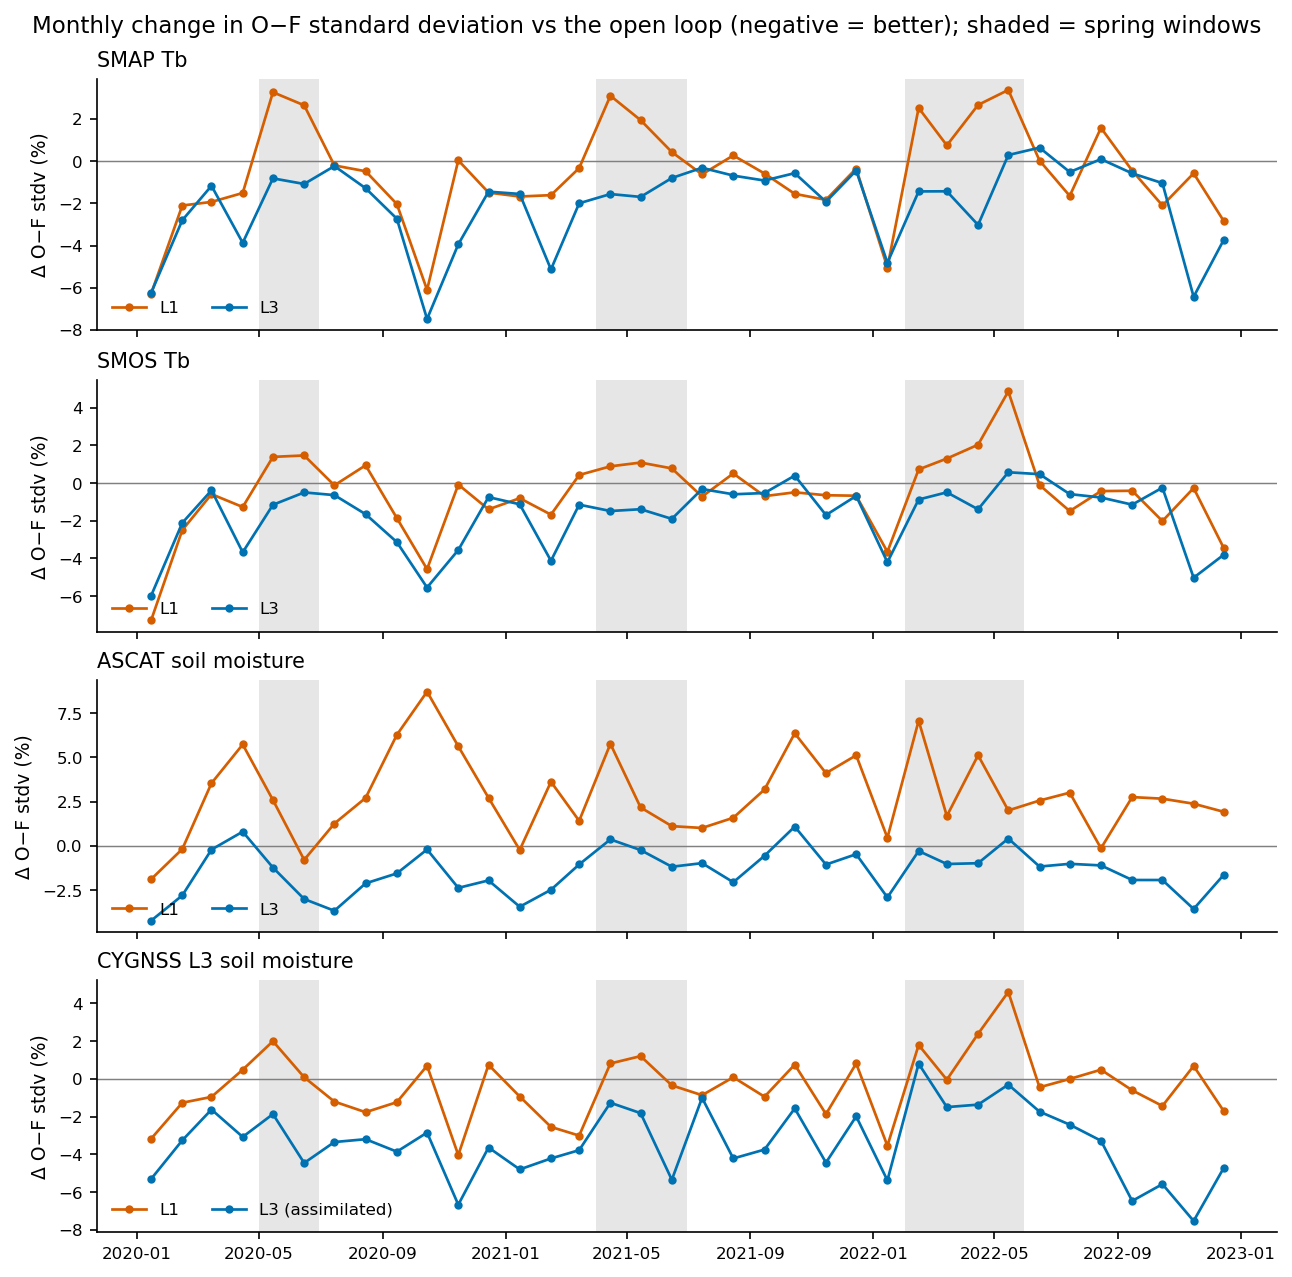
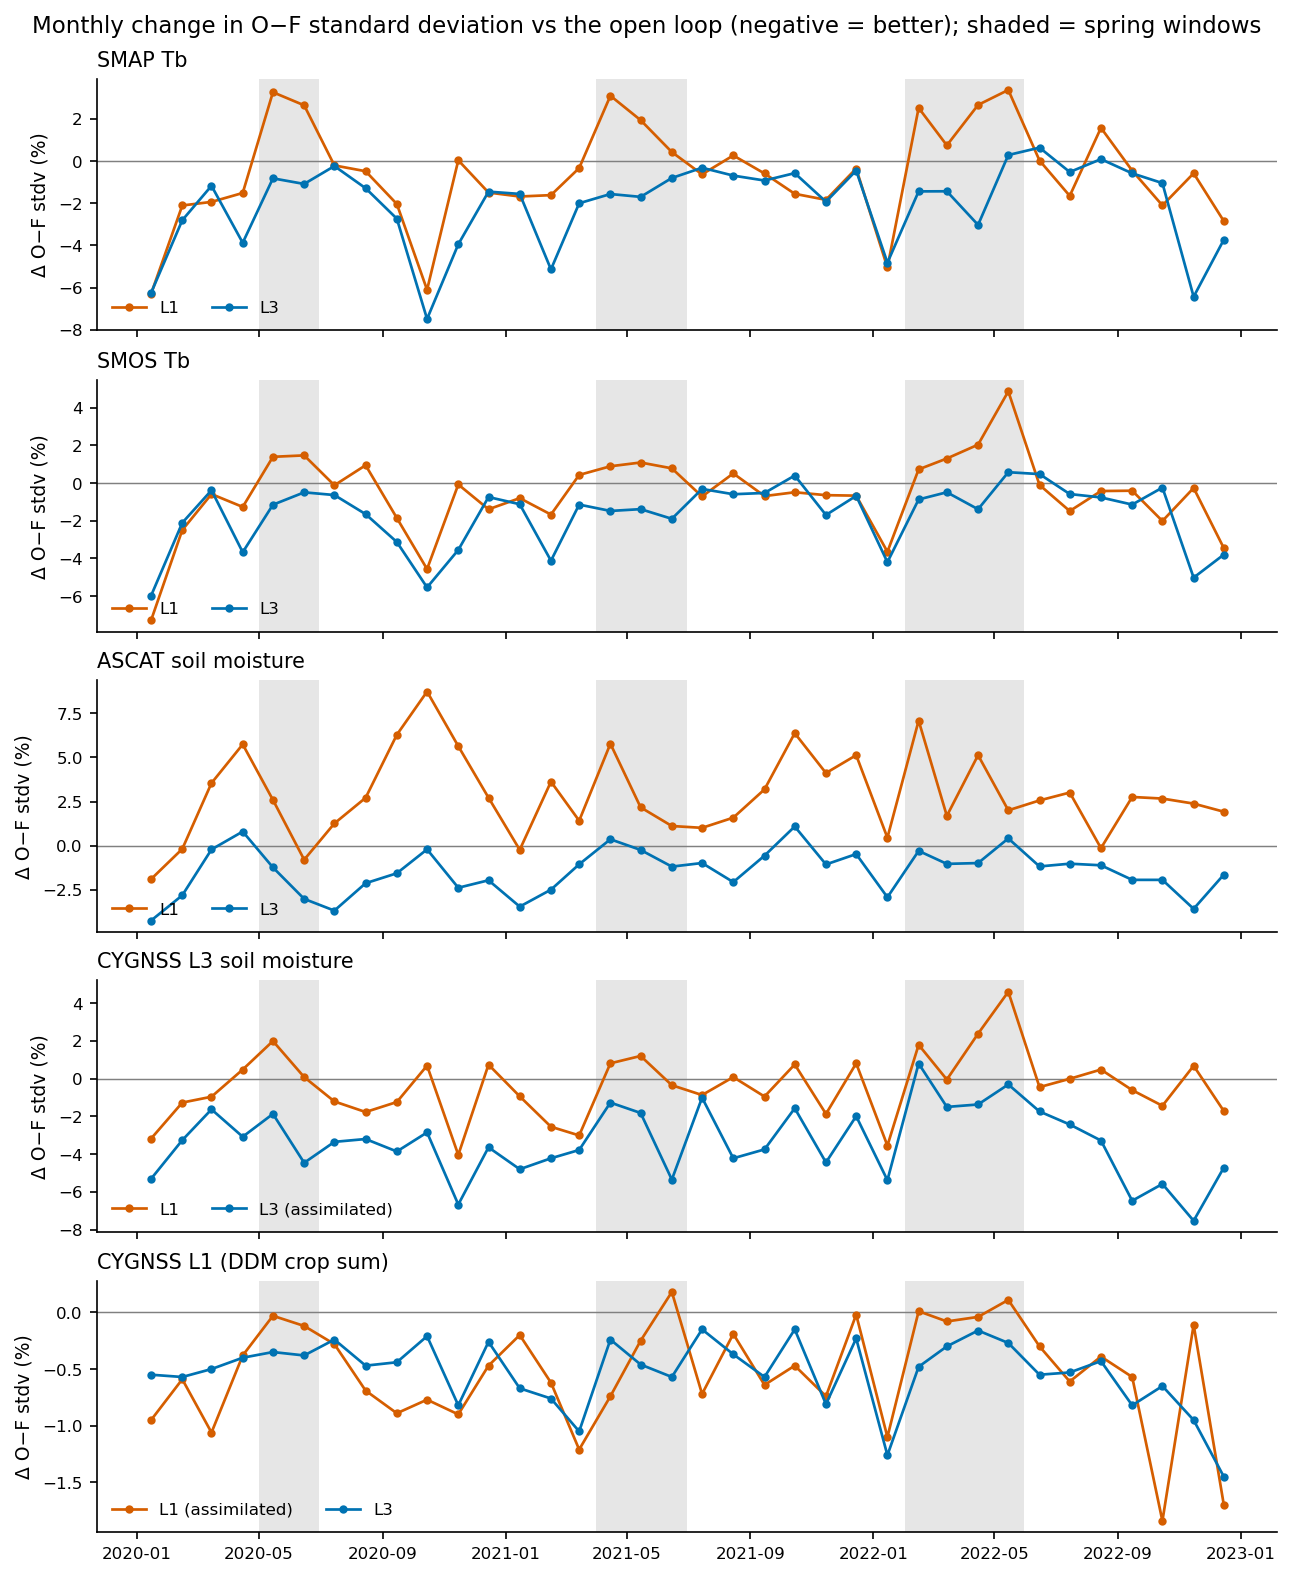
CYGNSS_L1_AZ paper: add CYGNSS L1 to Figs. 6 and 7
Fig. 6 gets a CYGNSS L1 panel and Fig. 7 a CYGNSS L1 column (own +-3% colour
scale), so the effect of L1 assimilation on the L1 fit is visible next to the
L3 arm's. Outline section 5.1 and the captions are updated to match.

diff --git a/projects/CYGNSS_L1_AZ/paper/make_paper_figures.py b/projects/CYGNSS_L1_AZ/paper/make_paper_figures.py
@@ -288,15 +288,17 @@ def monthly_table():
 
 def fig06_monthly():
     m = monthly_table()
-    panels = [("SMAP", "SMAP Tb"), ("SMOS", "SMOS Tb"), ("ASCAT", "ASCAT soil moisture"), ("L3", "CYGNSS L3 soil moisture")]
-    fig, axes = plt.subplots(4, 1, figsize=(8.5, 8.4), sharex=True, constrained_layout=True)
+    panels = [("SMAP", "SMAP Tb"), ("SMOS", "SMOS Tb"), ("ASCAT", "ASCAT soil moisture"), ("L3", "CYGNSS L3 soil moisture"),
+              ("L1", "CYGNSS L1 (DDM crop sum)")]
+    own_fit = {("l3_fixedop", "L3"), ("full_xc015_coh040216_fixedop", "L1")}
+    fig, axes = plt.subplots(len(panels), 1, figsize=(8.5, 10.4), sharex=True, constrained_layout=True)
     for ax, (col, title) in zip(axes, panels):
         shade_spring(ax)
         ax.axhline(0, color="0.5", lw=0.7)
         for tag in ["full_xc015_coh040216_fixedop", "l3_fixedop"]:
             lab, c = ARMS[tag]
             s = m[m.arm == tag].sort_values("time")
-            own = " (assimilated)" if (tag == "l3_fixedop" and col == "L3") else ""
+            own = " (assimilated)" if (tag, col) in own_fit else ""
             ax.plot(s.time, s[col], "o-", ms=3, lw=1.3, color=c, label=f"{lab}{own}")
         ax.set_ylabel("Δ O−F stdv (%)")
         ax.set_title(title, loc="left")
@@ -322,24 +324,28 @@ def tile_pct(tag, group, nmin=50):
 
 def fig07_maps():
     tiles = load_tiles()
-    cols = ["SMAP Tb", "ASCAT SM", "CYGNSS L3 SM"]
+    # CYGNSS L1 O-F changes are a few %, so that column gets its own, narrower colour scale.
+    cols = [("SMAP Tb", 10), ("ASCAT SM", 10), ("CYGNSS L3 SM", 10), ("CYGNSS L1", 3)]
     rows = ["full_xc015_coh040216_fixedop", "l3_fixedop"]
-    fig = plt.figure(figsize=(11, 6.4))
-    vmax = 10
+    own_fit = {("l3_fixedop", "CYGNSS L3 SM"), ("full_xc015_coh040216_fixedop", "CYGNSS L1")}
+    fig = plt.figure(figsize=(14, 6.4))
+    mappables = {}
     for i, tag in enumerate(rows):
-        for j, grp in enumerate(cols):
-            ax = map_axes(fig, (2, 3, i * 3 + j + 1))
+        for j, (grp, vmax) in enumerate(cols):
+            ax = map_axes(fig, (2, len(cols), i * len(cols) + j + 1))
             v = tile_pct(tag, grp)
-            sc = tile_squares(ax, tiles.com_lon, tiles.com_lat, v, cmap="RdBu_r", vmin=-vmax, vmax=vmax, s=9)
+            mappables[vmax] = tile_squares(ax, tiles.com_lon, tiles.com_lat, v, cmap="RdBu_r", vmin=-vmax, vmax=vmax)
             lab = ARMS[tag][0]
-            own = " (assimilated)" if (tag == "l3_fixedop" and grp == "CYGNSS L3 SM") else ""
+            own = " (assimilated)" if (tag, grp) in own_fit else ""
             ax.set_title(f"{lab} DA: {grp}{own}", fontsize=9)
             ax.text(0.02, 0.03, f"tile median {np.nanmedian(v):+.1f}%", transform=ax.transAxes, fontsize=7,
                     bbox=dict(fc="white", ec="none", alpha=0.8))
-    cax = fig.add_axes([0.25, 0.05, 0.5, 0.02])
-    cb = fig.colorbar(sc, cax=cax, orientation="horizontal", extend="both")
-    cb.set_label("Δ O−F stdv vs open loop, 2020–2022 (%; negative = better)")
     fig.subplots_adjust(left=0.02, right=0.98, top=0.93, bottom=0.12, wspace=0.05, hspace=0.12)
+    label = "Δ O−F stdv vs open loop, 2020–2022 (%; negative = better)"
+    cb = fig.colorbar(mappables[10], cax=fig.add_axes([0.08, 0.05, 0.6, 0.02]), orientation="horizontal", extend="both")
+    cb.set_label(label + ": SMAP, ASCAT, CYGNSS L3")
+    cb = fig.colorbar(mappables[3], cax=fig.add_axes([0.77, 0.05, 0.18, 0.02]), orientation="horizontal", extend="both")
+    cb.set_label("CYGNSS L1 (%)")
     save(fig, "fig07_omf_change_maps.png")
 
 

diff --git a/projects/CYGNSS_L1_AZ/paper/paper_outline.md b/projects/CYGNSS_L1_AZ/paper/paper_outline.md
@@ -160,6 +160,12 @@ from the pair data.*
 - **ASCAT:** the penalty is concentrated in the Four Corners area (Fig. 7).
 - **By season (Fig. 6):** Oct–Jan is consistently the best period for L1. Spring is consistently the worst: SMAP Tb O−F is worse than
   the OL in May–Jun 2020, Apr–Jun 2021 and Feb–May 2022.
+- **Fit to L1 itself (Figs. 6e and 7, right column).**
+  - Assimilating L1 reduces L1 O−F by 0.76%, against 0.54% when L3 is assimilated and 0.67% when SMAP is.
+  - The improvement is spread across the L1 area (tile median −0.9%). 33 of 36 months beat the OL. The other 3 (Jun 2021, Feb 2022,
+    May 2022) all fall inside the spring windows, and are worse by at most +0.18%.
+  - L1's own-fit gain is only slightly larger than what any soil-moisture assimilation gives. Much of the L1 O−F reduction comes from a
+    generally better soil-moisture state, and the L1-specific information is a smaller part.
 - **SMAP assimilation** is in a different class for Tb (−11 to −14%), but degrades ASCAT by +12.6%.
 
 **Table 3.** O−F standard deviation, % change vs the OL, pooled over 2020–2022 (negative = better). *Own fit* marks the assimilated
@@ -175,13 +181,15 @@ type. Sources: the O-F report §3, and "O-F over the same L1 area" in the ISMN r
 
 ![Fig. 6](figures/fig06_monthly_omf_change.png)
 
-**Fig. 6.** Monthly change in O−F standard deviation vs the open loop, for L1 and L3 assimilation. Shaded: the spring windows in which L1
-degrades Tb.
+**Fig. 6.** Monthly change in O−F standard deviation vs the open loop, for L1 and L3 assimilation. The panels show (a) SMAP Tb, (b) SMOS
+Tb, (c) ASCAT, (d) CYGNSS L3 and (e) CYGNSS L1, which is the experiment's own fit for L1 and an independent monitor for L3. Shaded: the
+spring windows in which L1 degrades Tb.
 
 ![Fig. 7](figures/fig07_omf_change_maps.png)
 
 **Fig. 7.** Change in O−F standard deviation per tile vs the open loop, pooled over 2020–2022, for L1 (top) and L3 (bottom)
-assimilation.
+assimilation. The right column is CYGNSS L1, on its own narrower colour scale (±3%); it is assimilated in the top row and monitored in
+the bottom row.
 
 ### 5.2 Why spring fails
 
